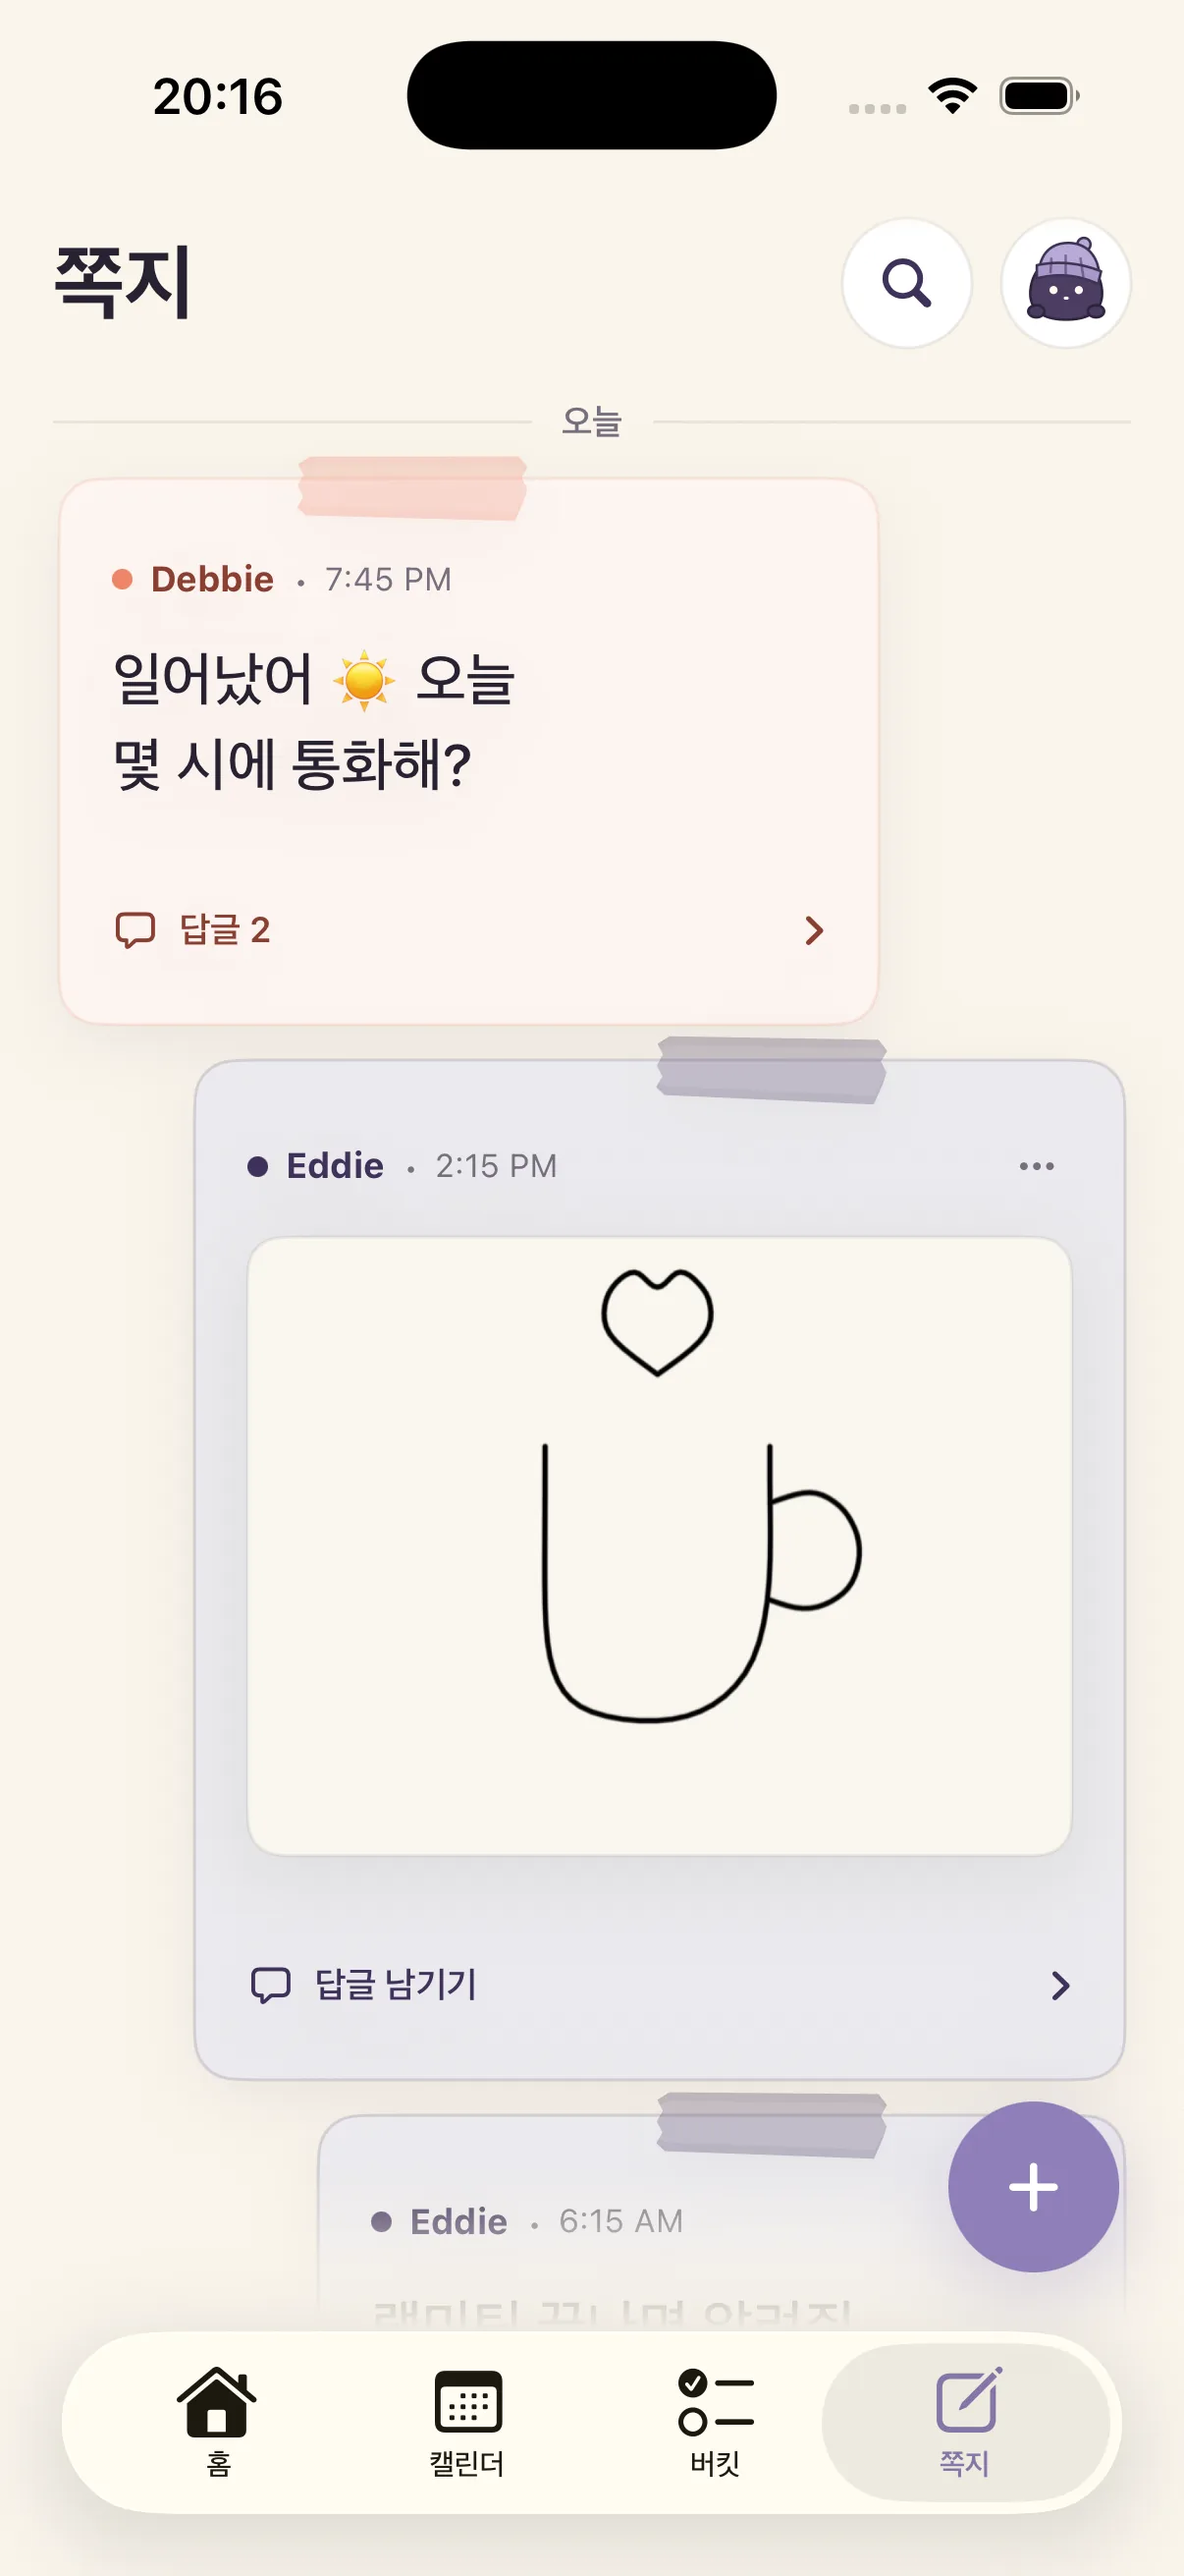
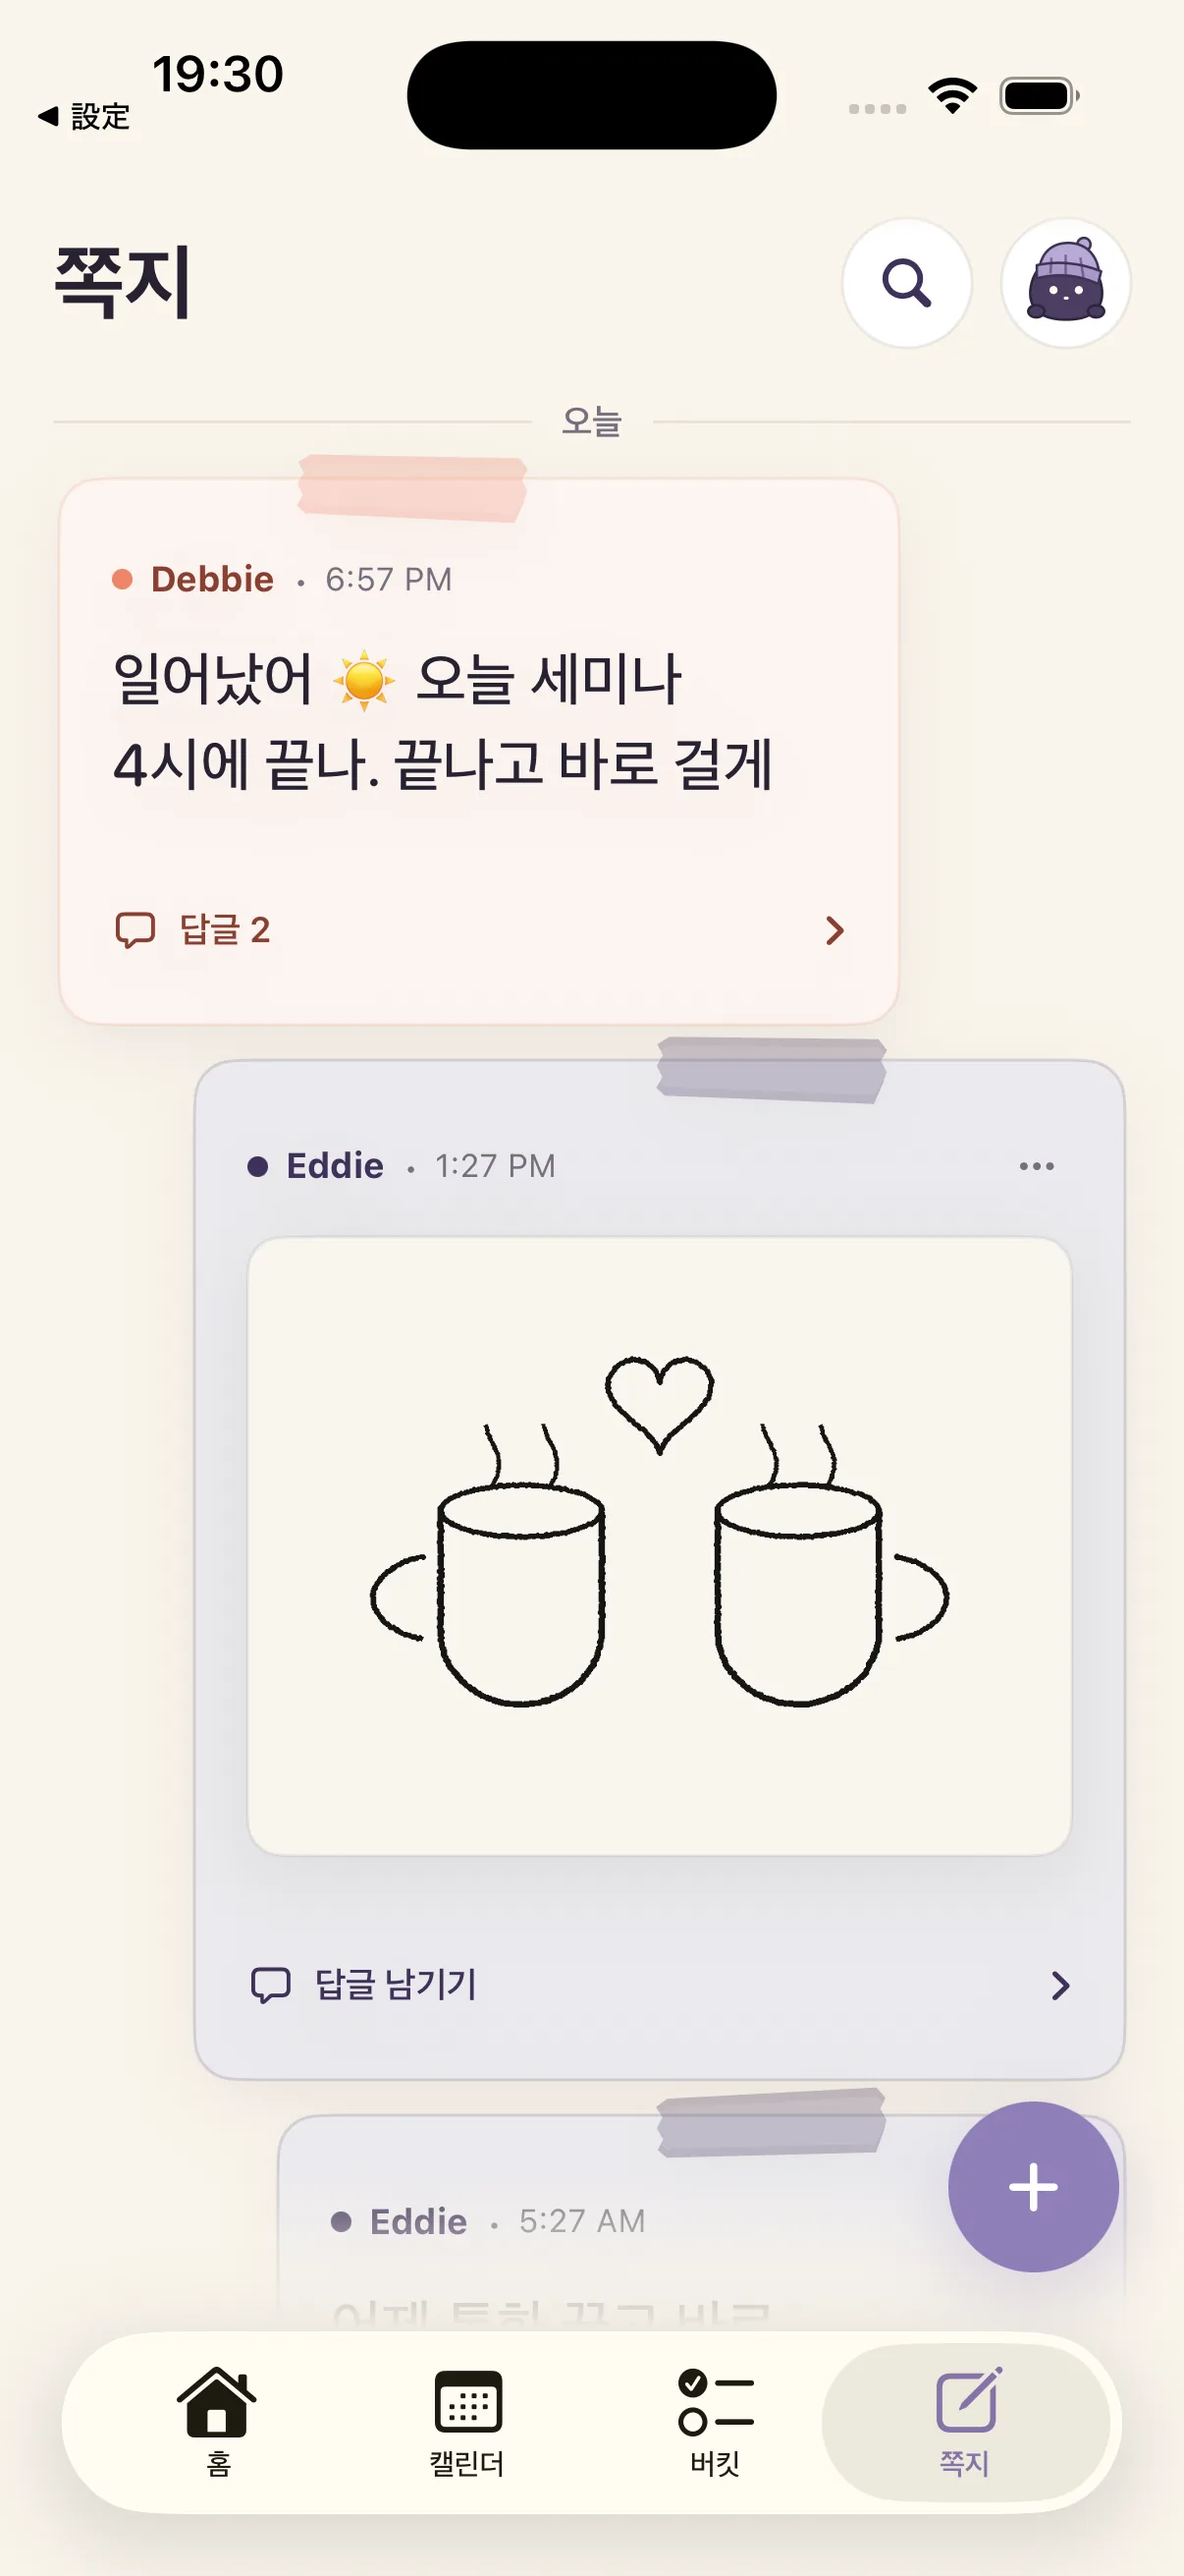
chore(screens): 쪽지 화면 스크린샷을 새 데모 쪽지·그림으로 교체한다(ko·en·ja)

diff --git a/ja/index.html b/ja/index.html
@@ -283,7 +283,7 @@
           <p>「会議が終わったら10分だけ通話?」「家に着いたら教えて」のように、返事を急かさないメモを残します。</p>
         </div>
         <figure class="device device-gallery">
-          <img src="../assets/screens/ja/notes.webp" alt="返信付きのテキストメモと、手描きのコーヒーカップのメモが並ぶ、Eddie と Debbie がおたがいに残した Naru メモの画面" width="1206" height="2622">
+          <img src="../assets/screens/ja/notes.webp" alt="返信付きのテキストメモと、ハートを添えたマグカップふたつの手描きメモが並ぶ、Eddie と Debbie がおたがいに残した Naru メモの画面" width="1206" height="2622">
         </figure>
       </article>
     </section>

diff --git a/index.html b/index.html
@@ -283,7 +283,7 @@
           <p>“회의 끝나면 10분만 통화?”, “집 도착하면 알려줘”처럼 답을 재촉하지 않는 쪽지를 남겨요.</p>
         </div>
         <figure class="device device-gallery">
-          <img src="./assets/screens/notes.webp" alt="답글이 달린 텍스트 쪽지와 손그림 커피잔 쪽지가 나란히 놓인, Eddie와 Debbie가 서로 남긴 Naru 쪽지 화면" width="1206" height="2622">
+          <img src="./assets/screens/notes.webp" alt="답글이 달린 텍스트 쪽지와 머그잔 두 개 위에 하트를 그린 손그림 쪽지가 나란히 놓인, Eddie와 Debbie가 서로 남긴 Naru 쪽지 화면" width="1206" height="2622">
         </figure>
       </article>
     </section>

diff --git a/en/index.html b/en/index.html
@@ -283,7 +283,7 @@
           <p>Leave a note that doesn't demand a reply — “ten minutes after my meeting?”, “tell me when you're home”.</p>
         </div>
         <figure class="device device-gallery">
-          <img src="../assets/screens/en/notes.webp" alt="A text note with replies on top and a hand-drawn coffee-cup note below — Naru notes that Eddie and Debbie left for each other" width="1206" height="2622">
+          <img src="../assets/screens/en/notes.webp" alt="A text note with replies on top and a hand-drawn note of two mugs with a heart below — Naru notes that Eddie and Debbie left for each other" width="1206" height="2622">
         </figure>
       </article>
     </section>
